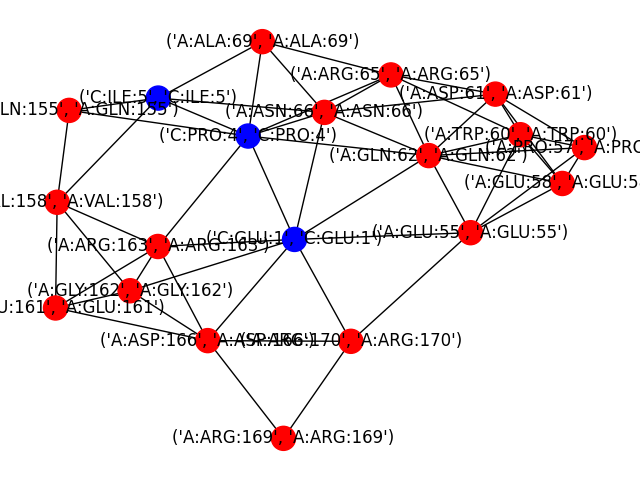
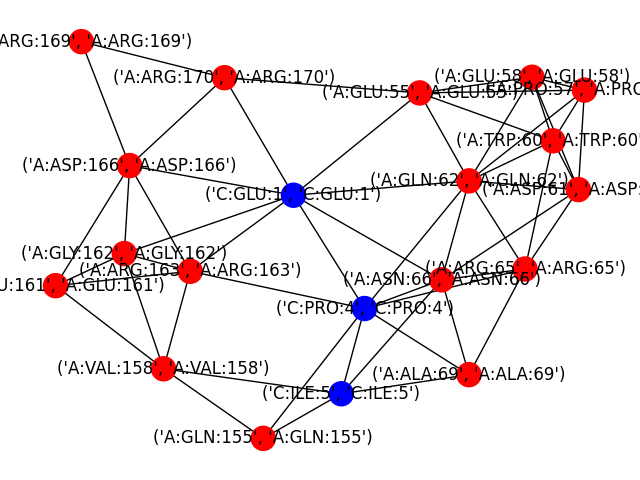
Associated graph now it's a class

diff --git a/graph.py b/graph.py
@@ -20,18 +20,148 @@ from typing import Callable, Any, Union, Optional
 
 
 class AssociatedGraph:
-    def __init__(self, graphA, graphB, output_path, path_full_subgraph, association_mode = "identity",  interface_list = None, centroid_threshold = 10):
+    def __init__(self, graphA, molA_path, graphB, molB_path, output_path, path_full_subgraph, run_name, association_mode = "identity",  interface_list = None, centroid_threshold = 10):
         if interface_list:
-            self.interface_list = pd.read_csv(interface_list, header=None)[0].to_list()
+            self.interface_list = interface_list
+        else:
+            self.interface_list = None
             
         self.graphA = graphA
         self.graphB = graphB
-        
+        self.molA_path = molA_path
+        self.molB_path = molB_path
         self.output_path = output_path
+        self.run_name = run_name
+        self.association_mode = association_mode
         Path(self.output_path).mkdir(parents=True, exist_ok=True)
         self.path_full_subgraph = path_full_subgraph
         
+        self.associated_graph = self._construct_graph(self.graphA, self.molA_path, self.graphB, self.molB_path, self.association_mode )
+        
+    
+    def _construct_graph(self, graphA, molA_path, graphB, molB_path, association_mode):
+        #Create a contact map and a list with residue names order as the contact map
+        #We do not need to do this, since graphein already build internally the distance matrix considering the centroid
+        #This matrix can be obtained from: graph.graph["pdb_df"]
+        #The contact matrix can be obtained from: graph.graph["dist_mat"]
+        #Usually this dist_mat is not updated in related to the pdb_df after graph subsets, so it is important to double check it 
+        #Instead of using the dist_mat we can build it again using compute_distmat(graph.graph["pdb_df"])
+        contact_map1, residue_map1, residue_map1_all = build_contact_map(molA_path) #_all means with resname
+        contact_map2, residue_map2, residue_map2_all = build_contact_map(molB_path)
+        
+        #Run the cartesian product to create the association graphs
+        #This can be substituted for just getting the combinations of node names, no need to build the original graphs!
+        M = nx.cartesian_product(graphA, graphB)
+        
+        if association_mode == 'identity':
+            #Filter the pair of nodes based on identity, same chain and neighborhoods
+            select_ident = [i for i in list(M) if check_identity(i) and check_identity_same_chain(i) and check_neighborhoods(i, contact_map1, residue_map1_all, contact_map2, residue_map2_all)]
+        
+        elif association_mode == 'similarity':
+            message_passing_molA = graph_message_passing(graphA, 'resources/atchley_aa.csv', use_degree=False, norm_features=False)
+            message_passing_molB = graph_message_passing(graphB, 'resources/atchley_aa.csv', use_degree=False, norm_features=False)
+            #Filter the pair of nodes 
+            select_ident = [i for i in list(M) if check_similarity(i, message_passing_molA, message_passing_molB, threshold=0.95) and check_identity_same_chain(i)]
+        else:
+            print(f'Mode {association_mode} is not a valid mode')
+            quit 
+            
+        #Create the association graphs
+        paired_graphs = [list(pair) for pair in combinations(select_ident, 2)]
+
+        #Filter out pairs of pairs (edges) based on cross positions
+        #For instance, if an association node has a pair with same positions 169 and 169 and its paired association node has a pair with different positions (169 and 170, for instance), it does not make sense to connect these nodes
+        paired_graphs_filtered = [i for i in paired_graphs if check_cross_positions(i)]
+
+        #To build the edges between association nodes, we first calculate the d1 distance, then d2 distance and then the d1d2 ratio
+        #calculate d1 distance
+        d1 = [find_contact_residues(contact_map1, residue_map1, (i[0][0].split(':')[0],int(i[0][0].split(':')[2])),  (i[1][0].split(':')[0],int(i[1][0].split(':')[2]))) for i in paired_graphs_filtered]
+        #calculate d2 distance
+        d2 = [find_contact_residues(contact_map2, residue_map2, (i[0][1].split(':')[0],int(i[0][1].split(':')[2])),  (i[1][1].split(':')[0],int(i[1][1].split(':')[2]))) for i in paired_graphs_filtered]
+        #calculate d1d2 ratio distance using coefficient of variation
+        d1d2 = [coefficient_of_variation(a,b) for a,b in zip(d1,d2)]
+        #generate the pair of connected nodes indicating the edges
+        new_nodes_edges = [paired_graphs_filtered[n] for n,m in enumerate(d1) if d1[n] < 10 and d2[n] < 10 and d1[n] > 0 and d2[n] > 0 and d1d2[n] < 15 and (paired_graphs_filtered[n][0][0] != paired_graphs_filtered[n][1][1] and paired_graphs_filtered[n][0][1] != paired_graphs_filtered[n][1][0])]
+
+        # Build the new graph
+        G_sub = nx.Graph()
+        # Add nodes
+        for sublist in new_nodes_edges:
+            for edge in sublist:
+                G_sub.add_node(edge[0])
+                G_sub.add_node(edge[1])
+        # Add edges
+        for sublist in new_nodes_edges:
+            G_sub.add_edge(sublist[0], sublist[1])
+
+        # Remove nodes with no edges
+        G_sub.remove_nodes_from(list(nx.isolates(G_sub)))
+
+        # Add chain as attribute to color the nodes 
+        for nodes in G_sub.nodes:
+            if nodes[0].startswith('A') and nodes[1].startswith('A'):
+                G_sub.nodes[nodes]['chain_id'] = 'red'
+            elif nodes[0].startswith('C') and nodes[1].startswith('C'):
+                G_sub.nodes[nodes]['chain_id'] = 'blue'
+            else:
+                G_sub.nodes[nodes]['chain_id'] = None
+        
+        return G_sub 
+    
+    def draw_graph(self, show = True, save = True):
+        if not show and not save:
+            print("You are not saving or viewing the graph. Please leave at least one of the parameters as true.")
+        else:
+            node_colors = [self.associated_graph.nodes[node]['chain_id'] for node in self.associated_graph.nodes]
+            # Draw the full cross-reactive subgraph
+            nx.draw(self.associated_graph, with_labels=True, node_color=node_colors, node_size=50, font_size=6)
+            
+            if show:
+                plt.show()
+            if save:
+                plt.savefig(self.path_full_subgraph)
+                plt.clf()
+    
+                print(f"GraphAssociated's plot saved in {self.path_full_subgraph}")
+  
+    def grow_subgraph_bfs(self):
+        # Build all possible common TCR interface pMHC subgraphs centered at the peptide nodes 
+        count_pep_nodes = 0
+        G_sub = self.associated_graph
+        for nodes in G_sub.nodes:
+            if nodes[0].startswith('C') and nodes[1].startswith('C'): #i.e. peptide nodes
+                count_pep_nodes += 1
+                #print(nodes)
+                bfs_subgraph = create_subgraph_with_neighbors(self.graphA, self.graphB, G_sub, nodes, 20)
+                for nodes2 in bfs_subgraph.nodes:
+                    if nodes2[0].startswith('A') and nodes2[1].startswith('A'):
+                        bfs_subgraph.nodes[nodes2]['chain_id'] = 'red'
+                    elif nodes2[0].startswith('C') and nodes2[1].startswith('C'):
+                        bfs_subgraph.nodes[nodes2]['chain_id'] = 'blue'
+                    else:
+                        bfs_subgraph.nodes[nodes2]['chain_id'] = None
+                #check whether nodes meet the requirements to be a TCR interface
+                number_peptide_nodes = len([i for i in bfs_subgraph.nodes if i[0].startswith('C')])
+                if bfs_subgraph.number_of_nodes() >= 14 and nx.diameter(bfs_subgraph) >= 3 and number_peptide_nodes >=3:
+                    node_colors = [bfs_subgraph.nodes[node]['chain_id'] for node in bfs_subgraph.nodes]
+                    nx.draw(bfs_subgraph, with_labels=True, node_color=node_colors)
+                    plt.savefig(path.join(self.output_path,f'plot_bfs_{nodes[0]}_{self.run_name}.png'))
+                    plt.clf()
+
+                    #write PDB with the common subgraphs as spheres
+                    get_node_names = list(bfs_subgraph.nodes())
+                    node_names_molA = [i[0] for i in get_node_names]
+                    node_names_molB = [i[1] for i in get_node_names]
+
+                    #create PDB with spheres
+                    add_sphere_residues(node_names_molA, self.molA_path, node_names_molB, self.molB_path, self.output_path, nodes[0])
+                    #add_sphere_residues(node_names_molB, path_protein2, path_protein2.split('.pdb')[0]+'_spheres.pdb')
+                else:
+                    print(f"The subgraph centered at the {nodes[0]} node does not satisfies the requirements")
+        if count_pep_nodes == 0:
+            print(f'No peptide nodes were found in the association graph. No subgraph will be generated.')
         pass
+        
     
 class Graph:
     def __init__(self, graph_path, config = None):

diff --git a/main.py b/main.py
@@ -109,109 +109,9 @@ g2 = Graph(config=config, graph_path=molB_path)
 s_g2 = get_exposed_residues_mhc(g2, inter_list=inter_list, rsa_threshold= 0.1, chains_peptide=["C"], chain_mhc="A")
 
 
-#Create a contact map and a list with residue names order as the contact map
-#We do not need to do this, since graphein already build internally the distance matrix considering the centroid
-#This matrix can be obtained from: graph.graph["pdb_df"]
-#The contact matrix can be obtained from: graph.graph["dist_mat"]
-#Usually this dist_mat is not updated in related to the pdb_df after graph subsets, so it is important to double check it 
-#Instead of using the dist_mat we can build it again using compute_distmat(graph.graph["pdb_df"])
-contact_map1, residue_map1, residue_map1_all = build_contact_map(molA_path) #_all means with resname
-contact_map2, residue_map2, residue_map2_all = build_contact_map(molB_path)
+G = AssociatedGraph(graphA = s_g1, molA_path = molA_path, graphB = s_g2, molB_path=molB_path, output_path=output_path, path_full_subgraph=path_full_subgraph,association_mode=args.association_mode, run_name= args.run_name,interface_list=inter_list, centroid_threshold=10)
+G_sub = G.associated_graph
 
-#Run the cartesian product to create the association graphs
-#This can be substituted for just getting the combinations of node names, no need to build the original graphs!
-M = nx.cartesian_product(s_g1, s_g2)
+G.draw_graph(show = False)
 
-if args.association_mode == 'identity':
-    #Filter the pair of nodes based on identity, same chain and neighborhoods
-    select_ident = [i for i in list(M) if check_identity(i) and check_identity_same_chain(i) and check_neighborhoods(i, contact_map1, residue_map1_all, contact_map2, residue_map2_all)]
-elif args.association_mode == 'similarity':
-    message_passing_molA = graph_message_passing(s_g1, 'resources/atchley_aa.csv', use_degree=False, norm_features=False)
-    message_passing_molB = graph_message_passing(s_g2, 'resources/atchley_aa.csv', use_degree=False, norm_features=False)
-    #Filter the pair of nodes 
-    select_ident = [i for i in list(M) if check_similarity(i, message_passing_molA, message_passing_molB, threshold=0.95) and check_identity_same_chain(i)]
-else:
-    print(f'Mode {args.association_mode} is not a valid mode')
-    quit
-
-#Create the association graphs
-paired_graphs = [list(pair) for pair in combinations(select_ident, 2)]
-
-#Filter out pairs of pairs (edges) based on cross positions
-#For instance, if an association node has a pair with same positions 169 and 169 and its paired association node has a pair with different positions (169 and 170, for instance), it does not make sense to connect these nodes
-paired_graphs_filtered = [i for i in paired_graphs if check_cross_positions(i)]
-
-#To build the edges between association nodes, we first calculate the d1 distance, then d2 distance and then the d1d2 ratio
-#calculate d1 distance
-d1 = [find_contact_residues(contact_map1, residue_map1, (i[0][0].split(':')[0],int(i[0][0].split(':')[2])),  (i[1][0].split(':')[0],int(i[1][0].split(':')[2]))) for i in paired_graphs_filtered]
-#calculate d2 distance
-d2 = [find_contact_residues(contact_map2, residue_map2, (i[0][1].split(':')[0],int(i[0][1].split(':')[2])),  (i[1][1].split(':')[0],int(i[1][1].split(':')[2]))) for i in paired_graphs_filtered]
-#calculate d1d2 ratio distance using coefficient of variation
-d1d2 = [coefficient_of_variation(a,b) for a,b in zip(d1,d2)]
-#generate the pair of connected nodes indicating the edges
-new_nodes_edges = [paired_graphs_filtered[n] for n,m in enumerate(d1) if d1[n] < 10 and d2[n] < 10 and d1[n] > 0 and d2[n] > 0 and d1d2[n] < 15 and (paired_graphs_filtered[n][0][0] != paired_graphs_filtered[n][1][1] and paired_graphs_filtered[n][0][1] != paired_graphs_filtered[n][1][0])]
-
-# Build the new graph
-G_sub = nx.Graph()
-# Add nodes
-for sublist in new_nodes_edges:
-    for edge in sublist:
-        G_sub.add_node(edge[0])
-        G_sub.add_node(edge[1])
-# Add edges
-for sublist in new_nodes_edges:
-    G_sub.add_edge(sublist[0], sublist[1])
-
-# Remove nodes with no edges
-G_sub.remove_nodes_from(list(nx.isolates(G_sub)))
-
-# Add chain as attribute to color the nodes 
-for nodes in G_sub.nodes:
-    if nodes[0].startswith('A') and nodes[1].startswith('A'):
-        G_sub.nodes[nodes]['chain_id'] = 'red'
-    elif nodes[0].startswith('C') and nodes[1].startswith('C'):
-        G_sub.nodes[nodes]['chain_id'] = 'blue'
-    else:
-        G_sub.nodes[nodes]['chain_id'] = None
-node_colors = [G_sub.nodes[node]['chain_id'] for node in G_sub.nodes]
-
-# Draw the full cross-reactive subgraph
-nx.draw(G_sub, with_labels=True, node_color=node_colors, node_size=50, font_size=6)
-#plt.show()
-plt.savefig(path_full_subgraph)
-plt.clf()
-
-# Build all possible common TCR interface pMHC subgraphs centered at the peptide nodes 
-count_pep_nodes = 0
-for nodes in G_sub.nodes:
-    if nodes[0].startswith('C') and nodes[1].startswith('C'): #i.e. peptide nodes
-        count_pep_nodes += 1
-        #print(nodes)
-        bfs_subgraph = create_subgraph_with_neighbors(s_g1, s_g2, G_sub, nodes, 20)
-        for nodes2 in bfs_subgraph.nodes:
-            if nodes2[0].startswith('A') and nodes2[1].startswith('A'):
-                bfs_subgraph.nodes[nodes2]['chain_id'] = 'red'
-            elif nodes2[0].startswith('C') and nodes2[1].startswith('C'):
-                bfs_subgraph.nodes[nodes2]['chain_id'] = 'blue'
-            else:
-                bfs_subgraph.nodes[nodes2]['chain_id'] = None
-        #check whether nodes meet the requirements to be a TCR interface
-        number_peptide_nodes = len([i for i in bfs_subgraph.nodes if i[0].startswith('C')])
-        if bfs_subgraph.number_of_nodes() >= 14 and nx.diameter(bfs_subgraph) >= 3 and number_peptide_nodes >=3:
-            node_colors = [bfs_subgraph.nodes[node]['chain_id'] for node in bfs_subgraph.nodes]
-            nx.draw(bfs_subgraph, with_labels=True, node_color=node_colors)
-            plt.savefig(path.join(output_path,f'plot_bfs_{nodes[0]}_{args.run_name}.png'))
-            plt.clf()
-
-            #write PDB with the common subgraphs as spheres
-            get_node_names = list(bfs_subgraph.nodes())
-            node_names_molA = [i[0] for i in get_node_names]
-            node_names_molB = [i[1] for i in get_node_names]
-
-            #create PDB with spheres
-            add_sphere_residues(node_names_molA, molA_path, node_names_molB, molB_path, output_path, nodes[0])
-            #add_sphere_residues(node_names_molB, path_protein2, path_protein2.split('.pdb')[0]+'_spheres.pdb')
-        else:
-            print(f"The subgraph centered at the {nodes[0]} node does not satisfies the requirements")
-if count_pep_nodes == 0:
-    print(f'No peptide nodes were found in the association graph. No subgraph will be generated.')
+G.grow_subgraph_bfs()
